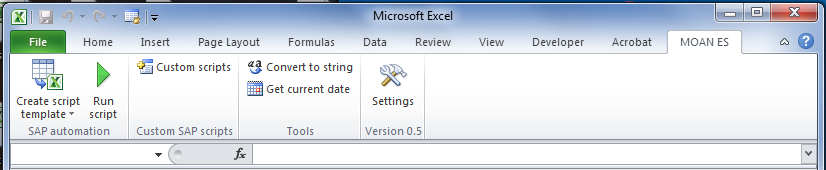
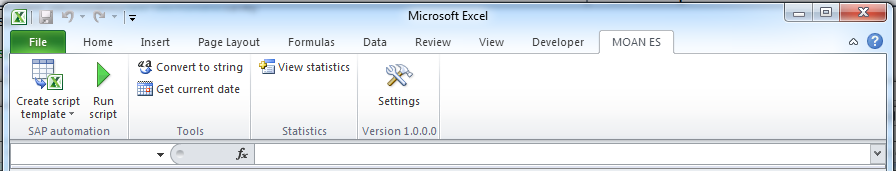
content updates, vs ribbon

diff --git a/Triton/public_html/style/style.css b/Triton/public_html/style/style.css
@@ -174,6 +174,10 @@ figcaption {
 	background-color: rgba(255, 51, 0, 0.9);
 }
 
+.btn-primary:active {
+	background-color: rgba(255, 51, 0, 0.9);
+}
+
 /* Wells, similar to jumbootron */ 
 
 .well {

diff --git a/Triton/public_html/example.php b/Triton/public_html/example.php
@@ -1,11 +1,11 @@
 <?php 
 
-/* ** 
-
-This is triton pagecontroller
-
-Detta är en sidkontroller - den ska ligga i katalogen webroot och den har som syfte att visa upp en webbsida. 
-*/ 
+/** 
+ *
+ * This is a triton pagecontroller
+ * Detta är en sidkontroller - den ska ligga i katalogen webroot och den har som syfte att visa upp en webbsida. 
+ *
+ */ 
 
 // config - skall alltid inkluderas (som förut)
 include(__DIR__ . '/config.php');
@@ -17,14 +17,14 @@ $db = new CDatabase($triton['database']);
 // Create model. 
 $example = new CExample($triton['database']);
 
-// Return model from creator model. 
-$example = $example->findFirst(['slug' => $slug]);
-
-if(!isset($slug) || count($example) == 0) {
-	header('Location: 404.php');
+// Return model from creator model. If that fails, return the 404-page instead. 
+if(!$example = $example->findFirst(['slug' => $slug])) {
+	// One of these should work. 
+	// return header('HTTP/1.0 404 Not Found');
+	return header('Location: 404.php');
 }
 
-$triton['title'] = "Example: {$example->title}";
+$triton['title'] = "{$example->title}";
 
 $text = stripslashes($example->text);
 

diff --git a/Triton/public_html/start.php b/Triton/public_html/start.php
@@ -26,7 +26,10 @@ $triton['main'] = <<<EOD
 		<div class='col-md-6'>
 			<h2>Fasten your seatbelts!</h2>
 			<p>We at MOAN Enterprise strive to help our customers achieve efficiency in everyday work by speeding up their SAP and Excel tasks through simple, powerful and reliable scripts.</p>
-			<p>Find out more by navigating to our <a href='products'>products</a> page, or find out just how easily a new script is created by checking out the <a href='examples'>examples</a>.</p>
+			<p>Find out more by navigating to our <a href='products'>products</a> page, or find coding examples and more info at the <a href='examples'>examples</a> section.</p>
+			<h2>See how it works</h2>
+			<p>In this example, the Ribbon Add-In is used to set system status TECO on all items of a Sales order.</p>
+			<iframe width="560" height="315" src="https://www.youtube.com/embed/0YXybTQXnYU" frameborder="0" allowfullscreen></iframe>
 		</div>
 		<div class='col-md-6'>
 			<div class='code-example-container'>

diff --git a/Triton/public_html/examples.php b/Triton/public_html/examples.php
@@ -13,7 +13,7 @@ include(__DIR__ . '/config.php');
 $triton['title'] = "Example articles";
 
 $db = new CDatabase($triton['database']);
-$sql = "SELECT * FROM examples ORDER BY created DESC LIMIT 0, 10"; // add paginering. Custom class for that?
+$sql = "SELECT * FROM examples WHERE published IS NOT NULL ORDER BY created DESC LIMIT 0, 10"; // add paginering. Custom class for that?
 $examples = $db->executeSelectQueryAndFetchAll($sql);
 
 $adminBar = null;

diff --git a/Triton/files/products.md b/Triton/files/products.md
@@ -7,10 +7,10 @@
 Using our Excel Custom Ribbon template for creating SAP Scripts, SAP automation* has never been easier, and always available when you open Excel. 
 
 <p>
-<figure class='border'>
-<img src='img.php?src=ribbon.png' alt='Ribbon' class='img-responsive center-block' />
-<figcaption class='text-center'>Image: The Excel SAP Ribbon Add-In.</figcaption>
-</figure>
+	<figure class='border'>
+		<img src='img.php?src=ribbon.png' alt='Ribbon' class='img-responsive center-block' />
+		<figcaption class='text-center'>Image: The Excel SAP Ribbon Add-In.</figcaption>
+	</figure>
 </p>
 
 *\*<sub>Your SAP system needs to have SAP Scripting installed and enabled. In almost all cases, it is. See the picture at the bottom of this page to see how it should look in your settings.</sub>* 
@@ -24,57 +24,49 @@ It couldn't be easier. Let us guide you through the steps.
 <div class='row script-preview'>
 	<div class='col-md-6'>
 		<p class='lead'>Generate a script template by choosing a script to run.</p>
-
 		<p>
 			<figure class='border'>
 				<img src='img.php?src=select-script.png' alt='Select script' class='img-responsive center-block' />
 				<figcaption class='text-center'>Image: Select a script.</figcaption>
 			</figure>
-			</p>
+		</p>
 	</div>
 
 	<div class='col-md-6'>
 		<p class='lead'>Fill in the script template for as many objects you like.</p>
-
 		<p>
 			<figure class='border'>
 				<img src='img.php?src=fill-in-script.png' alt='Fill in script' class='img-responsive center-block' />
 				<figcaption class='text-center'>Image: Fill in the script.</figcaption>
 			</figure>
 		</p>
-
 	</div>
 </div>
 
 <div class='row script-preview'>
 	<div class='col-md-6'>
 		<p class='lead'>Click the run button.</p>
-
 		<p>
 			<figure class='border'>
 				<img src='img.php?src=run-script.png' alt='Select script' class='img-responsive center-block' />
 				<figcaption class='text-center'>Image: Run the script.</figcaption>
 			</figure>
 		</p>
-
 	</div>
 
 		<div class='col-md-6'>
 		<p class='lead'>Get the results directly from SAP into Excel.</p>
-
 		<p>
 			<figure class='border'>
 				<img src='img.php?src=script-results.png' alt='Script results' class='img-responsive center-block' />
 				<figcaption class='text-center'>Image: View the script results.</figcaption>
 			</figure>
 		</p>
-
 	</div>
 </div>
 
 #### Time saved example
-
-This graph represents actual data over the months of a year for one department of 25 people using the SAP Ribbon Add-In.
+This graph represents actual data over the months of a year for one department of 25 people using the SAP Ribbon Add-In. Simply press the View statistics button to generate the source data for such a graph. 
 
 <p>
 	<figure class='border'>
@@ -87,37 +79,29 @@ Some time saved, huh!
 
 <hr>
 
-#### Customize your solution
-
-Let us set you up with the scripts you need - or let us *teach you* how to do create them. 
+#### We customize your solution
+Every organization is unique, and has different needs. Which is why we customize your scripts according to yours. 
 
 <hr>
 
 #### Components in detail
-
 * Usage statistics overview
 * Customization according to your needs
 * Custom error handling
-* Code exporting (for i.e GitHub)
-* Database component for use with MS Access
+* Database component for use with MS Access or SQLite. 
 
 <hr>
 
 #### Typical work process: 
-You have some task that is repetative. It could be for example WBS closing in Project Builder, change a date, tick a checkbox, or the creation of purchase orders etc. 
+You have some task that is repetative. It could be for example WBS closing in Project Builder, change a date somewhere, tick a checkbox, or even more advanced stuff, like the creation of purchase orders etc. 
 
-You do a couple of updates manually, and realize that you will do this for weeks. 
+Instead of working manually with such tasks, you record the steps in SAP on the first update. The recording contains all the steps required to do the update on that object. We rewrite it so it fits different system scenarios, and insert it into the SAP Ribbon program. 
 
-Instead of working like that, you record the steps on the first update and then insert this recording to our Add-In template. Create some variables and adapt for variances in the objects to be updated. 
-
-Click the play button and go and do something that actually requires a human :). 
-
-The best part is that you do not need to be a experienced programmer to make and maintain these kind of scripts. It's that easy, everyone can do it. 
+Now, you click the play button and go and do something that actually requires a human :). 
 
 <hr>
 
 ### Other Excel macros
-
 Besides from integrating them in the Excel SAP Ribbon - perhaps you have an idea that you want to automate as an independent script? 
 
 Perhaps one of the following:
@@ -125,7 +109,7 @@ Perhaps one of the following:
 * compare reports
 * create graphs automatically
 * generate reports based on data
-* compile information
+* compile information in reports 
 * synchronize MS Access database with Excel
 * update MS Access database records or fetch information
 * generate templates
@@ -149,8 +133,8 @@ Head over to [contact](contact) for more information on how to contact us.
 <hr> 
 
 <p>
-<figure class='border'>
-<img src='img.php?src=scriptinginstalled.png&amp;width=550' alt='Scripting enabled' class='img-responsive center-block' />
-<figcaption class='text-center'>Image: Scripting is installed.</figcaption>
-</figure>
+	<figure class='border'>
+		<img src='img.php?src=scriptinginstalled.png&amp;width=550' alt='Scripting enabled' class='img-responsive center-block' />
+		<figcaption class='text-center'>Image: Scripting is installed.</figcaption>
+	</figure>
 </p>
